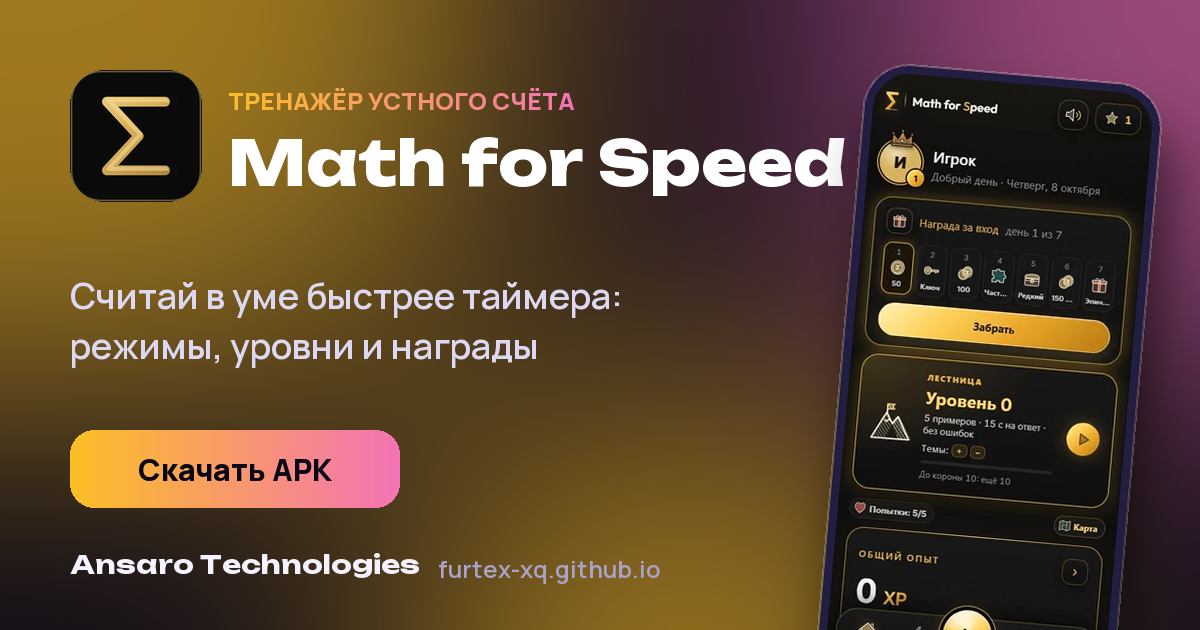
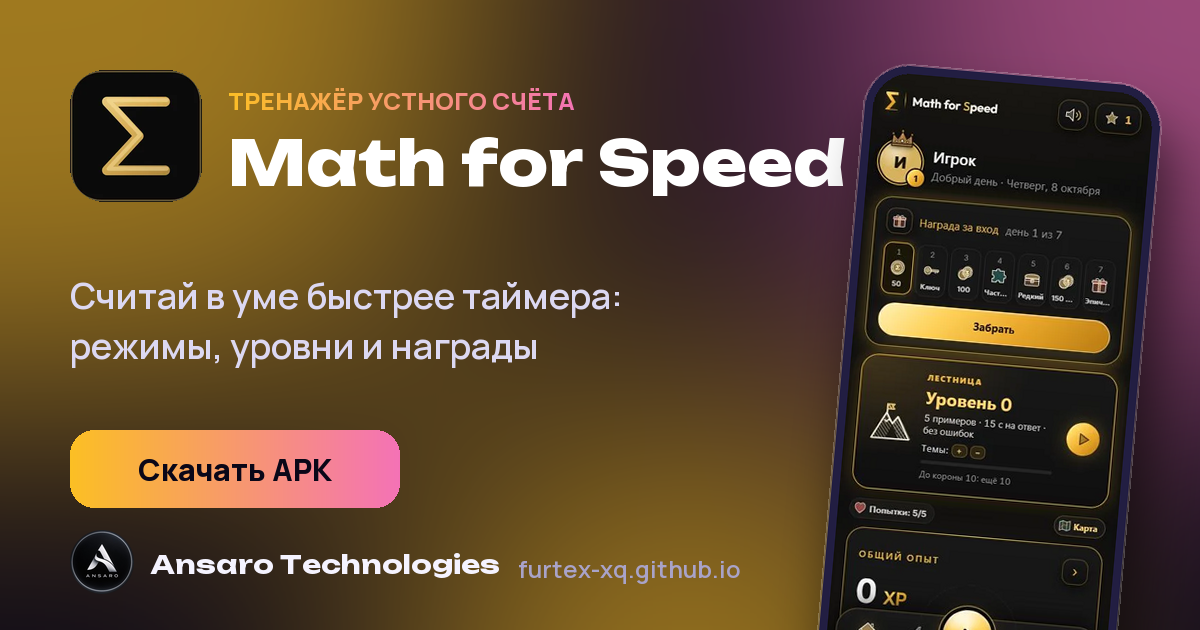
Аватар Ansaro в шапке, иконке сайта и превью ссылок

Changed region(s): [[0.0617, 0.8444, 0.6167, 0.9349]]

diff --git a/python/index.html b/python/index.html
@@ -8,29 +8,29 @@
 <meta name="description" content="Учись программировать на Python в телефоне: 32 главы, тесты, задачи с автопроверкой и запуск кода. Онлайн-демо и скачивание APK.">
 <meta name="theme-color" content="#0a0718">
 <link rel="canonical" href="https://furtex-xq.github.io/python/">
-<link rel="icon" type="image/png" sizes="48x48" href="favicon.png">
-<link rel="icon" type="image/png" sizes="192x192" href="icon-192.png">
-<link rel="apple-touch-icon" href="apple-touch-icon.png">
-<link rel="manifest" href="manifest.webmanifest">
+<link rel="icon" type="image/png" sizes="48x48" href="favicon.png?v=2">
+<link rel="icon" type="image/png" sizes="192x192" href="icon-192.png?v=2">
+<link rel="apple-touch-icon" href="apple-touch-icon.png?v=2">
+<link rel="manifest" href="manifest.webmanifest?v=2">
 <meta property="og:type" content="website">
 <meta property="og:site_name" content="Ansaro Technologies">
 <meta property="og:title" content="Python с нуля до профи — приложение по программированию">
 <meta property="og:description" content="Учись программировать на Python в телефоне: 32 главы, тесты, задачи с автопроверкой и запуск кода. Онлайн-демо и скачивание APK.">
 <meta property="og:url" content="https://furtex-xq.github.io/python/">
-<meta property="og:image" content="https://furtex-xq.github.io/img/og-python.png">
+<meta property="og:image" content="https://furtex-xq.github.io/img/og-python.png?v=2">
 <meta property="og:image:width" content="1200">
 <meta property="og:image:height" content="630">
 <meta property="og:locale" content="ru_RU">
 <meta name="twitter:card" content="summary_large_image">
 <meta name="twitter:title" content="Python с нуля до профи — приложение по программированию">
 <meta name="twitter:description" content="Учись программировать на Python в телефоне: 32 главы, тесты, задачи с автопроверкой и запуск кода. Онлайн-демо и скачивание APK.">
-<meta name="twitter:image" content="https://furtex-xq.github.io/img/og-python.png">
+<meta name="twitter:image" content="https://furtex-xq.github.io/img/og-python.png?v=2">
 <script type="application/ld+json">{"@context": "https://schema.org", "@type": "SoftwareApplication", "name": "Python с нуля до профи", "description": "Учись программировать на Python в телефоне: 32 главы, тесты, задачи с автопроверкой и запуск кода. Онлайн-демо и скачивание APK.", "operatingSystem": "Android", "applicationCategory": "EducationalApplication", "url": "https://furtex-xq.github.io/python/", "image": "https://furtex-xq.github.io/img/og-python.png", "author": {"@type": "Organization", "name": "Ansaro Technologies", "url": "https://furtex-xq.github.io/"}, "offers": {"@type": "Offer", "price": "0", "priceCurrency": "USD"}, "downloadUrl": "https://github.com/furtex-xq/furtex-xq.github.io/releases/latest/download/PythonBook.apk"}</script>
 <script>try{var t=localStorage.getItem('theme');if(t)document.documentElement.dataset.theme=t}catch(e){}</script>
 <link rel="preconnect" href="https://fonts.googleapis.com">
 <link rel="preconnect" href="https://fonts.gstatic.com" crossorigin>
 <link href="https://fonts.googleapis.com/css2?family=Unbounded:wght@500;700;800&family=Manrope:wght@400;500;600;700;800&display=swap" rel="stylesheet">
-<link rel="stylesheet" href="style.css?v=8">
+<link rel="stylesheet" href="style.css?v=9">
 </head>
 <body>
 <div class="aurora"></div><div class="noise"></div><div class="spot"></div>
@@ -47,7 +47,7 @@
 </svg>
 
 <nav><div class="wrap"><div class="bar">
-  <a class="logo" href="index.html"><span class="mk">A</span><span class="tx">Ansaro Technologies</span></a>
+  <a class="logo" href="index.html"><span class="mk"><img src="img/ansaro-logo.webp" alt="" width="34" height="34"></span><span class="tx">Ansaro Technologies</span></a>
   <ul>
     <li><a href="#tidemark">Tidemark</a></li>
     <li><a href="#mfs">Math for Speed</a></li>

diff --git a/index.html b/index.html
@@ -7,29 +7,29 @@
 <meta name="description" content="Android-приложения от Ansaro Technologies: Tidemark, Math for Speed, Python с нуля до профи, Monko и Dealio. Описание, онлайн-демо и скачивание APK.">
 <meta name="theme-color" content="#0a0718">
 <link rel="canonical" href="https://furtex-xq.github.io/">
-<link rel="icon" type="image/png" sizes="48x48" href="favicon.png">
-<link rel="icon" type="image/png" sizes="192x192" href="icon-192.png">
-<link rel="apple-touch-icon" href="apple-touch-icon.png">
-<link rel="manifest" href="manifest.webmanifest">
+<link rel="icon" type="image/png" sizes="48x48" href="favicon.png?v=2">
+<link rel="icon" type="image/png" sizes="192x192" href="icon-192.png?v=2">
+<link rel="apple-touch-icon" href="apple-touch-icon.png?v=2">
+<link rel="manifest" href="manifest.webmanifest?v=2">
 <meta property="og:type" content="website">
 <meta property="og:site_name" content="Ansaro Technologies">
 <meta property="og:title" content="Ansaro Technologies — Android-приложения">
 <meta property="og:description" content="Android-приложения от Ansaro Technologies: Tidemark, Math for Speed, Python с нуля до профи, Monko и Dealio. Описание, онлайн-демо и скачивание APK.">
 <meta property="og:url" content="https://furtex-xq.github.io/">
-<meta property="og:image" content="https://furtex-xq.github.io/img/og.png">
+<meta property="og:image" content="https://furtex-xq.github.io/img/og.png?v=2">
 <meta property="og:image:width" content="1200">
 <meta property="og:image:height" content="630">
 <meta property="og:locale" content="ru_RU">
 <meta name="twitter:card" content="summary_large_image">
 <meta name="twitter:title" content="Ansaro Technologies — Android-приложения">
 <meta name="twitter:description" content="Android-приложения от Ansaro Technologies: Tidemark, Math for Speed, Python с нуля до профи, Monko и Dealio. Описание, онлайн-демо и скачивание APK.">
-<meta name="twitter:image" content="https://furtex-xq.github.io/img/og.png">
+<meta name="twitter:image" content="https://furtex-xq.github.io/img/og.png?v=2">
 <script type="application/ld+json">{"@context": "https://schema.org", "@type": "Organization", "name": "Ansaro Technologies", "url": "https://furtex-xq.github.io/", "logo": "https://furtex-xq.github.io/icon-512.png", "founder": {"@type": "Person", "name": "Davyd", "alternateName": "nochevvsky", "sameAs": ["https://instagram.com/nochevvsky"]}, "sameAs": ["https://t.me/AnsaroDev", "https://t.me/AnsaroTechnologies", "https://instagram.com/nochevvsky"]}</script>
 <script>try{var t=localStorage.getItem('theme');if(t)document.documentElement.dataset.theme=t}catch(e){}</script>
 <link rel="preconnect" href="https://fonts.googleapis.com">
 <link rel="preconnect" href="https://fonts.gstatic.com" crossorigin>
 <link href="https://fonts.googleapis.com/css2?family=Unbounded:wght@500;700;800&family=Manrope:wght@400;500;600;700;800&display=swap" rel="stylesheet">
-<link rel="stylesheet" href="style.css?v=8">
+<link rel="stylesheet" href="style.css?v=9">
 </head>
 <body>
 <div class="aurora"></div><div class="noise"></div><div class="spot"></div>
@@ -46,7 +46,7 @@
 </svg>
 
 <nav><div class="wrap"><div class="bar">
-  <a class="logo" href="index.html"><span class="mk">A</span><span class="tx">Ansaro Technologies</span></a>
+  <a class="logo" href="index.html"><span class="mk"><img src="img/ansaro-logo.webp" alt="" width="34" height="34"></span><span class="tx">Ansaro Technologies</span></a>
   <ul>
     <li><a href="#tidemark">Tidemark</a></li>
     <li><a href="#mfs">Math for Speed</a></li>
@@ -89,7 +89,7 @@
   </div>
   <div class="orbit" aria-hidden="true">
     <div class="ring"></div><div class="ring r2"></div>
-    <div class="core">A</div>
+    <div class="core"><img src="img/ansaro-avatar.webp" alt=""></div>
     <a class="ico i1" href="#tidemark" tabindex="-1"><img src="img/tidemark-icon.webp" alt=""></a>
     <a class="ico i2" href="#mfs" tabindex="-1"><img src="img/mfs-icon.webp" alt=""></a>
     <a class="ico i3" href="#python" tabindex="-1"><svg><use href="#py"/></svg></a>

diff --git a/tidemark/index.html b/tidemark/index.html
@@ -8,29 +8,29 @@
 <meta name="description" content="Tidemark: живые цены криптовалют, графики с индикаторами, портфель, уведомления и обучение. Онлайн-демо и скачивание APK.">
 <meta name="theme-color" content="#0a0718">
 <link rel="canonical" href="https://furtex-xq.github.io/tidemark/">
-<link rel="icon" type="image/png" sizes="48x48" href="favicon.png">
-<link rel="icon" type="image/png" sizes="192x192" href="icon-192.png">
-<link rel="apple-touch-icon" href="apple-touch-icon.png">
-<link rel="manifest" href="manifest.webmanifest">
+<link rel="icon" type="image/png" sizes="48x48" href="favicon.png?v=2">
+<link rel="icon" type="image/png" sizes="192x192" href="icon-192.png?v=2">
+<link rel="apple-touch-icon" href="apple-touch-icon.png?v=2">
+<link rel="manifest" href="manifest.webmanifest?v=2">
 <meta property="og:type" content="website">
 <meta property="og:site_name" content="Ansaro Technologies">
 <meta property="og:title" content="Tidemark — крипто-трекер для Android">
 <meta property="og:description" content="Tidemark: живые цены криптовалют, графики с индикаторами, портфель, уведомления и обучение. Онлайн-демо и скачивание APK.">
 <meta property="og:url" content="https://furtex-xq.github.io/tidemark/">
-<meta property="og:image" content="https://furtex-xq.github.io/img/og-tidemark.png">
+<meta property="og:image" content="https://furtex-xq.github.io/img/og-tidemark.png?v=2">
 <meta property="og:image:width" content="1200">
 <meta property="og:image:height" content="630">
 <meta property="og:locale" content="ru_RU">
 <meta name="twitter:card" content="summary_large_image">
 <meta name="twitter:title" content="Tidemark — крипто-трекер для Android">
 <meta name="twitter:description" content="Tidemark: живые цены криптовалют, графики с индикаторами, портфель, уведомления и обучение. Онлайн-демо и скачивание APK.">
-<meta name="twitter:image" content="https://furtex-xq.github.io/img/og-tidemark.png">
+<meta name="twitter:image" content="https://furtex-xq.github.io/img/og-tidemark.png?v=2">
 <script type="application/ld+json">{"@context": "https://schema.org", "@type": "SoftwareApplication", "name": "Tidemark", "description": "Tidemark: живые цены криптовалют, графики с индикаторами, портфель, уведомления и обучение. Онлайн-демо и скачивание APK.", "operatingSystem": "Android", "applicationCategory": "FinanceApplication", "url": "https://furtex-xq.github.io/tidemark/", "image": "https://furtex-xq.github.io/img/og-tidemark.png", "author": {"@type": "Organization", "name": "Ansaro Technologies", "url": "https://furtex-xq.github.io/"}, "offers": {"@type": "Offer", "price": "0", "priceCurrency": "USD"}, "downloadUrl": "https://github.com/furtex-xq/furtex-xq.github.io/releases/latest/download/Tidemark.apk", "softwareVersion": "1.0.1"}</script>
 <script>try{var t=localStorage.getItem('theme');if(t)document.documentElement.dataset.theme=t}catch(e){}</script>
 <link rel="preconnect" href="https://fonts.googleapis.com">
 <link rel="preconnect" href="https://fonts.gstatic.com" crossorigin>
 <link href="https://fonts.googleapis.com/css2?family=Unbounded:wght@500;700;800&family=Manrope:wght@400;500;600;700;800&display=swap" rel="stylesheet">
-<link rel="stylesheet" href="style.css?v=8">
+<link rel="stylesheet" href="style.css?v=9">
 </head>
 <body>
 <div class="aurora"></div><div class="noise"></div><div class="spot"></div>
@@ -47,7 +47,7 @@
 </svg>
 
 <nav><div class="wrap"><div class="bar">
-  <a class="logo" href="index.html"><span class="mk">A</span><span class="tx">Ansaro Technologies</span></a>
+  <a class="logo" href="index.html"><span class="mk"><img src="img/ansaro-logo.webp" alt="" width="34" height="34"></span><span class="tx">Ansaro Technologies</span></a>
   <ul>
     <li><a href="#tidemark">Tidemark</a></li>
     <li><a href="#mfs">Math for Speed</a></li>

diff --git a/monko/index.html b/monko/index.html
@@ -8,29 +8,29 @@
 <meta name="description" content="Monko: счета в разных валютах, бюджеты, цели, долги и статистика в премиальном дизайне. Онлайн-демо и скачивание APK.">
 <meta name="theme-color" content="#0a0718">
 <link rel="canonical" href="https://furtex-xq.github.io/monko/">
-<link rel="icon" type="image/png" sizes="48x48" href="favicon.png">
-<link rel="icon" type="image/png" sizes="192x192" href="icon-192.png">
-<link rel="apple-touch-icon" href="apple-touch-icon.png">
-<link rel="manifest" href="manifest.webmanifest">
+<link rel="icon" type="image/png" sizes="48x48" href="favicon.png?v=2">
+<link rel="icon" type="image/png" sizes="192x192" href="icon-192.png?v=2">
+<link rel="apple-touch-icon" href="apple-touch-icon.png?v=2">
+<link rel="manifest" href="manifest.webmanifest?v=2">
 <meta property="og:type" content="website">
 <meta property="og:site_name" content="Ansaro Technologies">
 <meta property="og:title" content="Monko — личные финансы для Android">
 <meta property="og:description" content="Monko: счета в разных валютах, бюджеты, цели, долги и статистика в премиальном дизайне. Онлайн-демо и скачивание APK.">
 <meta property="og:url" content="https://furtex-xq.github.io/monko/">
-<meta property="og:image" content="https://furtex-xq.github.io/img/og-monko.png">
+<meta property="og:image" content="https://furtex-xq.github.io/img/og-monko.png?v=2">
 <meta property="og:image:width" content="1200">
 <meta property="og:image:height" content="630">
 <meta property="og:locale" content="ru_RU">
 <meta name="twitter:card" content="summary_large_image">
 <meta name="twitter:title" content="Monko — личные финансы для Android">
 <meta name="twitter:description" content="Monko: счета в разных валютах, бюджеты, цели, долги и статистика в премиальном дизайне. Онлайн-демо и скачивание APK.">
-<meta name="twitter:image" content="https://furtex-xq.github.io/img/og-monko.png">
+<meta name="twitter:image" content="https://furtex-xq.github.io/img/og-monko.png?v=2">
 <script type="application/ld+json">{"@context": "https://schema.org", "@type": "SoftwareApplication", "name": "Monko", "description": "Monko: счета в разных валютах, бюджеты, цели, долги и статистика в премиальном дизайне. Онлайн-демо и скачивание APK.", "operatingSystem": "Android", "applicationCategory": "FinanceApplication", "url": "https://furtex-xq.github.io/monko/", "image": "https://furtex-xq.github.io/img/og-monko.png", "author": {"@type": "Organization", "name": "Ansaro Technologies", "url": "https://furtex-xq.github.io/"}, "offers": {"@type": "Offer", "price": "0", "priceCurrency": "USD"}, "downloadUrl": "https://github.com/furtex-xq/furtex-xq.github.io/releases/latest/download/Monko.apk", "softwareVersion": "1.0.0"}</script>
 <script>try{var t=localStorage.getItem('theme');if(t)document.documentElement.dataset.theme=t}catch(e){}</script>
 <link rel="preconnect" href="https://fonts.googleapis.com">
 <link rel="preconnect" href="https://fonts.gstatic.com" crossorigin>
 <link href="https://fonts.googleapis.com/css2?family=Unbounded:wght@500;700;800&family=Manrope:wght@400;500;600;700;800&display=swap" rel="stylesheet">
-<link rel="stylesheet" href="style.css?v=8">
+<link rel="stylesheet" href="style.css?v=9">
 </head>
 <body>
 <div class="aurora"></div><div class="noise"></div><div class="spot"></div>
@@ -47,7 +47,7 @@
 </svg>
 
 <nav><div class="wrap"><div class="bar">
-  <a class="logo" href="index.html"><span class="mk">A</span><span class="tx">Ansaro Technologies</span></a>
+  <a class="logo" href="index.html"><span class="mk"><img src="img/ansaro-logo.webp" alt="" width="34" height="34"></span><span class="tx">Ansaro Technologies</span></a>
   <ul>
     <li><a href="#tidemark">Tidemark</a></li>
     <li><a href="#mfs">Math for Speed</a></li>

diff --git a/mfs/index.html b/mfs/index.html
@@ -8,29 +8,29 @@
 <meta name="description" content="Math for Speed: считай в уме быстрее таймера. Режимы, уровни, учебник и награды. Онлайн-демо и скачивание APK.">
 <meta name="theme-color" content="#0a0718">
 <link rel="canonical" href="https://furtex-xq.github.io/mfs/">
-<link rel="icon" type="image/png" sizes="48x48" href="favicon.png">
-<link rel="icon" type="image/png" sizes="192x192" href="icon-192.png">
-<link rel="apple-touch-icon" href="apple-touch-icon.png">
-<link rel="manifest" href="manifest.webmanifest">
+<link rel="icon" type="image/png" sizes="48x48" href="favicon.png?v=2">
+<link rel="icon" type="image/png" sizes="192x192" href="icon-192.png?v=2">
+<link rel="apple-touch-icon" href="apple-touch-icon.png?v=2">
+<link rel="manifest" href="manifest.webmanifest?v=2">
 <meta property="og:type" content="website">
 <meta property="og:site_name" content="Ansaro Technologies">
 <meta property="og:title" content="Math for Speed — тренажёр устного счёта">
 <meta property="og:description" content="Math for Speed: считай в уме быстрее таймера. Режимы, уровни, учебник и награды. Онлайн-демо и скачивание APK.">
 <meta property="og:url" content="https://furtex-xq.github.io/mfs/">
-<meta property="og:image" content="https://furtex-xq.github.io/img/og-mfs.png">
+<meta property="og:image" content="https://furtex-xq.github.io/img/og-mfs.png?v=2">
 <meta property="og:image:width" content="1200">
 <meta property="og:image:height" content="630">
 <meta property="og:locale" content="ru_RU">
 <meta name="twitter:card" content="summary_large_image">
 <meta name="twitter:title" content="Math for Speed — тренажёр устного счёта">
 <meta name="twitter:description" content="Math for Speed: считай в уме быстрее таймера. Режимы, уровни, учебник и награды. Онлайн-демо и скачивание APK.">
-<meta name="twitter:image" content="https://furtex-xq.github.io/img/og-mfs.png">
+<meta name="twitter:image" content="https://furtex-xq.github.io/img/og-mfs.png?v=2">
 <script type="application/ld+json">{"@context": "https://schema.org", "@type": "SoftwareApplication", "name": "Math for Speed", "description": "Math for Speed: считай в уме быстрее таймера. Режимы, уровни, учебник и награды. Онлайн-демо и скачивание APK.", "operatingSystem": "Android", "applicationCategory": "EducationalApplication", "url": "https://furtex-xq.github.io/mfs/", "image": "https://furtex-xq.github.io/img/og-mfs.png", "author": {"@type": "Organization", "name": "Ansaro Technologies", "url": "https://furtex-xq.github.io/"}, "offers": {"@type": "Offer", "price": "0", "priceCurrency": "USD"}, "downloadUrl": "https://github.com/furtex-xq/furtex-xq.github.io/releases/latest/download/MathForSpeed.apk", "softwareVersion": "1.25"}</script>
 <script>try{var t=localStorage.getItem('theme');if(t)document.documentElement.dataset.theme=t}catch(e){}</script>
 <link rel="preconnect" href="https://fonts.googleapis.com">
 <link rel="preconnect" href="https://fonts.gstatic.com" crossorigin>
 <link href="https://fonts.googleapis.com/css2?family=Unbounded:wght@500;700;800&family=Manrope:wght@400;500;600;700;800&display=swap" rel="stylesheet">
-<link rel="stylesheet" href="style.css?v=8">
+<link rel="stylesheet" href="style.css?v=9">
 </head>
 <body>
 <div class="aurora"></div><div class="noise"></div><div class="spot"></div>
@@ -47,7 +47,7 @@
 </svg>
 
 <nav><div class="wrap"><div class="bar">
-  <a class="logo" href="index.html"><span class="mk">A</span><span class="tx">Ansaro Technologies</span></a>
+  <a class="logo" href="index.html"><span class="mk"><img src="img/ansaro-logo.webp" alt="" width="34" height="34"></span><span class="tx">Ansaro Technologies</span></a>
   <ul>
     <li><a href="#tidemark">Tidemark</a></li>
     <li><a href="#mfs">Math for Speed</a></li>

diff --git a/dealio/index.html b/dealio/index.html
@@ -8,29 +8,29 @@
 <meta name="description" content="Dealio сравнивает цены в магазинах рядом и подсказывает, где купить дешевле. Приложение в разработке.">
 <meta name="theme-color" content="#0a0718">
 <link rel="canonical" href="https://furtex-xq.github.io/dealio/">
-<link rel="icon" type="image/png" sizes="48x48" href="favicon.png">
-<link rel="icon" type="image/png" sizes="192x192" href="icon-192.png">
-<link rel="apple-touch-icon" href="apple-touch-icon.png">
-<link rel="manifest" href="manifest.webmanifest">
+<link rel="icon" type="image/png" sizes="48x48" href="favicon.png?v=2">
+<link rel="icon" type="image/png" sizes="192x192" href="icon-192.png?v=2">
+<link rel="apple-touch-icon" href="apple-touch-icon.png?v=2">
+<link rel="manifest" href="manifest.webmanifest?v=2">
 <meta property="og:type" content="website">
 <meta property="og:site_name" content="Ansaro Technologies">
 <meta property="og:title" content="Dealio — сравнение цен и скидок">
 <meta property="og:description" content="Dealio сравнивает цены в магазинах рядом и подсказывает, где купить дешевле. Приложение в разработке.">
 <meta property="og:url" content="https://furtex-xq.github.io/dealio/">
-<meta property="og:image" content="https://furtex-xq.github.io/img/og-dealio.png">
+<meta property="og:image" content="https://furtex-xq.github.io/img/og-dealio.png?v=2">
 <meta property="og:image:width" content="1200">
 <meta property="og:image:height" content="630">
 <meta property="og:locale" content="ru_RU">
 <meta name="twitter:card" content="summary_large_image">
 <meta name="twitter:title" content="Dealio — сравнение цен и скидок">
 <meta name="twitter:description" content="Dealio сравнивает цены в магазинах рядом и подсказывает, где купить дешевле. Приложение в разработке.">
-<meta name="twitter:image" content="https://furtex-xq.github.io/img/og-dealio.png">
+<meta name="twitter:image" content="https://furtex-xq.github.io/img/og-dealio.png?v=2">
 <script type="application/ld+json">{"@context": "https://schema.org", "@type": "SoftwareApplication", "name": "Dealio", "description": "Dealio сравнивает цены в магазинах рядом и подсказывает, где купить дешевле. Приложение в разработке.", "operatingSystem": "Android", "applicationCategory": "ShoppingApplication", "url": "https://furtex-xq.github.io/dealio/", "image": "https://furtex-xq.github.io/img/og-dealio.png", "author": {"@type": "Organization", "name": "Ansaro Technologies", "url": "https://furtex-xq.github.io/"}, "offers": {"@type": "Offer", "price": "0", "priceCurrency": "USD"}}</script>
 <script>try{var t=localStorage.getItem('theme');if(t)document.documentElement.dataset.theme=t}catch(e){}</script>
 <link rel="preconnect" href="https://fonts.googleapis.com">
 <link rel="preconnect" href="https://fonts.gstatic.com" crossorigin>
 <link href="https://fonts.googleapis.com/css2?family=Unbounded:wght@500;700;800&family=Manrope:wght@400;500;600;700;800&display=swap" rel="stylesheet">
-<link rel="stylesheet" href="style.css?v=8">
+<link rel="stylesheet" href="style.css?v=9">
 </head>
 <body>
 <div class="aurora"></div><div class="noise"></div><div class="spot"></div>
@@ -47,7 +47,7 @@
 </svg>
 
 <nav><div class="wrap"><div class="bar">
-  <a class="logo" href="index.html"><span class="mk">A</span><span class="tx">Ansaro Technologies</span></a>
+  <a class="logo" href="index.html"><span class="mk"><img src="img/ansaro-logo.webp" alt="" width="34" height="34"></span><span class="tx">Ansaro Technologies</span></a>
   <ul>
     <li><a href="#tidemark">Tidemark</a></li>
     <li><a href="#mfs">Math for Speed</a></li>

diff --git a/updates.html b/updates.html
@@ -7,28 +7,28 @@
 <meta name="description" content="Лента обновлений приложений Ansaro Technologies: Tidemark, Math for Speed, Python с нуля до профи, Monko и Dealio.">
 <meta name="theme-color" content="#0a0718">
 <link rel="canonical" href="https://furtex-xq.github.io/updates.html">
-<link rel="icon" type="image/png" sizes="48x48" href="favicon.png">
-<link rel="icon" type="image/png" sizes="192x192" href="icon-192.png">
-<link rel="apple-touch-icon" href="apple-touch-icon.png">
-<link rel="manifest" href="manifest.webmanifest">
+<link rel="icon" type="image/png" sizes="48x48" href="favicon.png?v=2">
+<link rel="icon" type="image/png" sizes="192x192" href="icon-192.png?v=2">
+<link rel="apple-touch-icon" href="apple-touch-icon.png?v=2">
+<link rel="manifest" href="manifest.webmanifest?v=2">
 <meta property="og:type" content="website">
 <meta property="og:site_name" content="Ansaro Technologies">
 <meta property="og:title" content="Обновления · Ansaro Technologies">
 <meta property="og:description" content="Лента обновлений приложений Ansaro Technologies.">
 <meta property="og:url" content="https://furtex-xq.github.io/updates.html">
-<meta property="og:image" content="https://furtex-xq.github.io/img/og.png">
+<meta property="og:image" content="https://furtex-xq.github.io/img/og.png?v=2">
 <meta property="og:image:width" content="1200">
 <meta property="og:image:height" content="630">
 <meta property="og:locale" content="ru_RU">
 <meta name="twitter:card" content="summary_large_image">
 <meta name="twitter:title" content="Обновления · Ansaro Technologies">
 <meta name="twitter:description" content="Лента обновлений приложений Ansaro Technologies.">
-<meta name="twitter:image" content="https://furtex-xq.github.io/img/og.png">
+<meta name="twitter:image" content="https://furtex-xq.github.io/img/og.png?v=2">
 <script>try{var t=localStorage.getItem('theme');if(t)document.documentElement.dataset.theme=t}catch(e){}</script>
 <link rel="preconnect" href="https://fonts.googleapis.com">
 <link rel="preconnect" href="https://fonts.gstatic.com" crossorigin>
 <link href="https://fonts.googleapis.com/css2?family=Unbounded:wght@500;700;800&family=Manrope:wght@400;500;600;700;800&display=swap" rel="stylesheet">
-<link rel="stylesheet" href="style.css?v=8">
+<link rel="stylesheet" href="style.css?v=9">
 </head>
 <body data-title="u.title">
 <div class="aurora"></div><div class="noise"></div><div class="spot"></div>
@@ -39,7 +39,7 @@
 </svg>
 
 <nav><div class="wrap"><div class="bar">
-  <a class="logo" href="index.html"><span class="mk">A</span><span class="tx">Ansaro Technologies</span></a>
+  <a class="logo" href="index.html"><span class="mk"><img src="img/ansaro-logo.webp" alt="" width="34" height="34"></span><span class="tx">Ansaro Technologies</span></a>
   <ul>
     <li><a href="index.html#tidemark">Tidemark</a></li>
     <li><a href="index.html#mfs">Math for Speed</a></li>

diff --git a/style.css b/style.css
@@ -391,3 +391,9 @@ footer .fl{display:flex;gap:18px;flex-wrap:wrap}
 .ava img{width:100%;height:100%;object-fit:cover;border-radius:50%}
 .link.own .li{background:#000;overflow:hidden;box-shadow:0 0 0 1.5px rgba(255,255,255,.25)}
 .link.own .li img{width:100%;height:100%;object-fit:cover}
+
+/* ===== логотип Ansaro (аватар) в шапке и в центре первого экрана ===== */
+.mk{width:34px;height:34px;border-radius:50%;background:#000;overflow:hidden;box-shadow:0 0 0 1.5px rgba(255,255,255,.28),0 6px 18px -6px rgba(255,255,255,.35)}
+.mk img{width:100%;height:100%;object-fit:cover;display:block}
+.orbit .core{background:#000;border-radius:50%;overflow:hidden;animation:none;box-shadow:0 30px 90px -20px #8b5cf6,0 0 0 2px rgba(255,255,255,.22),0 0 0 12px var(--glass)}
+.orbit .core img{width:100%;height:100%;object-fit:cover;display:block}
